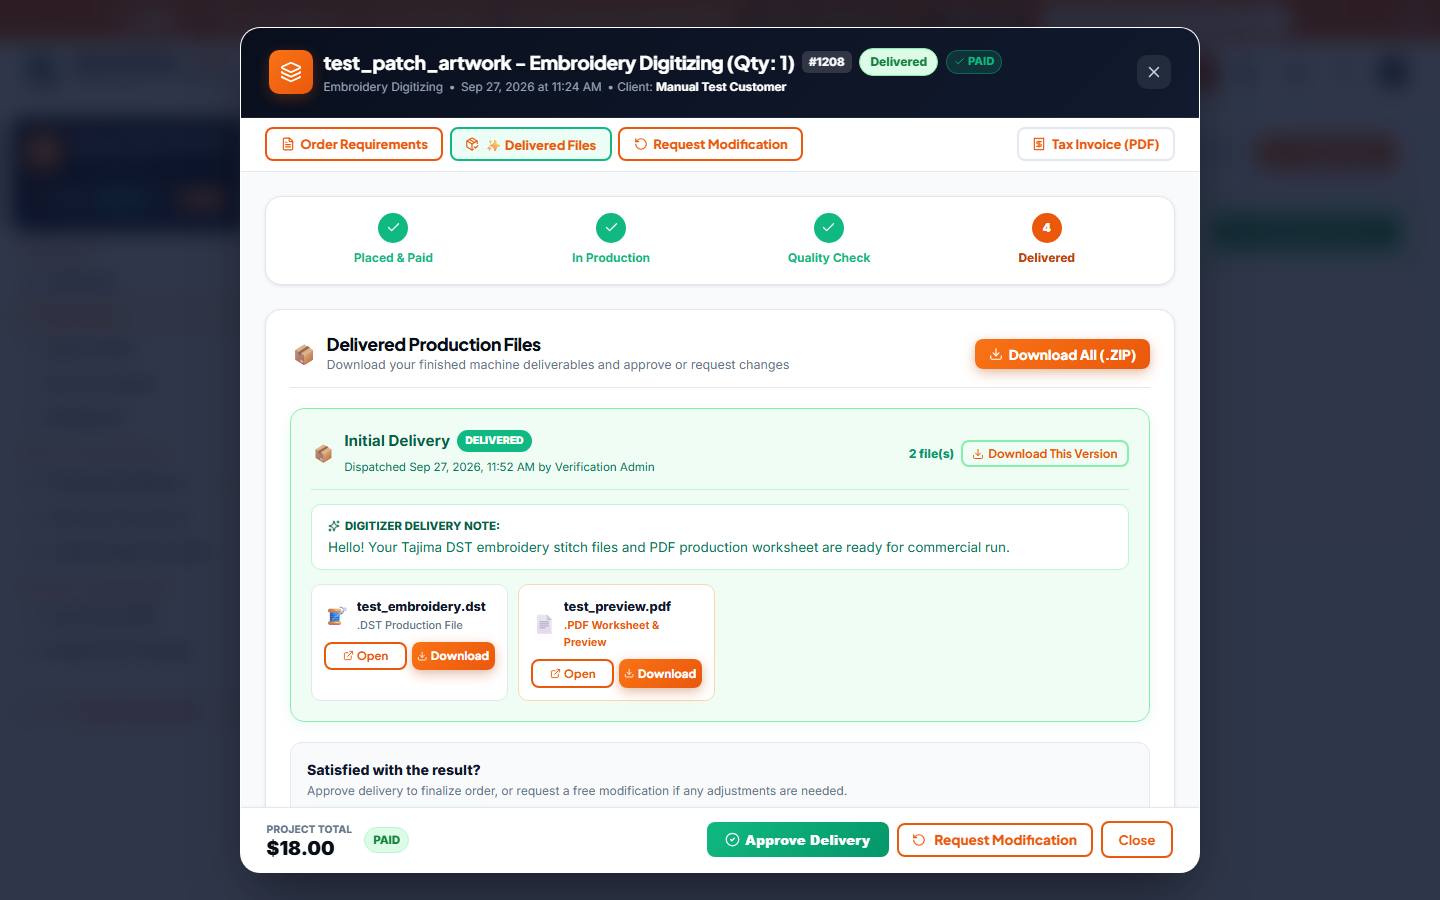
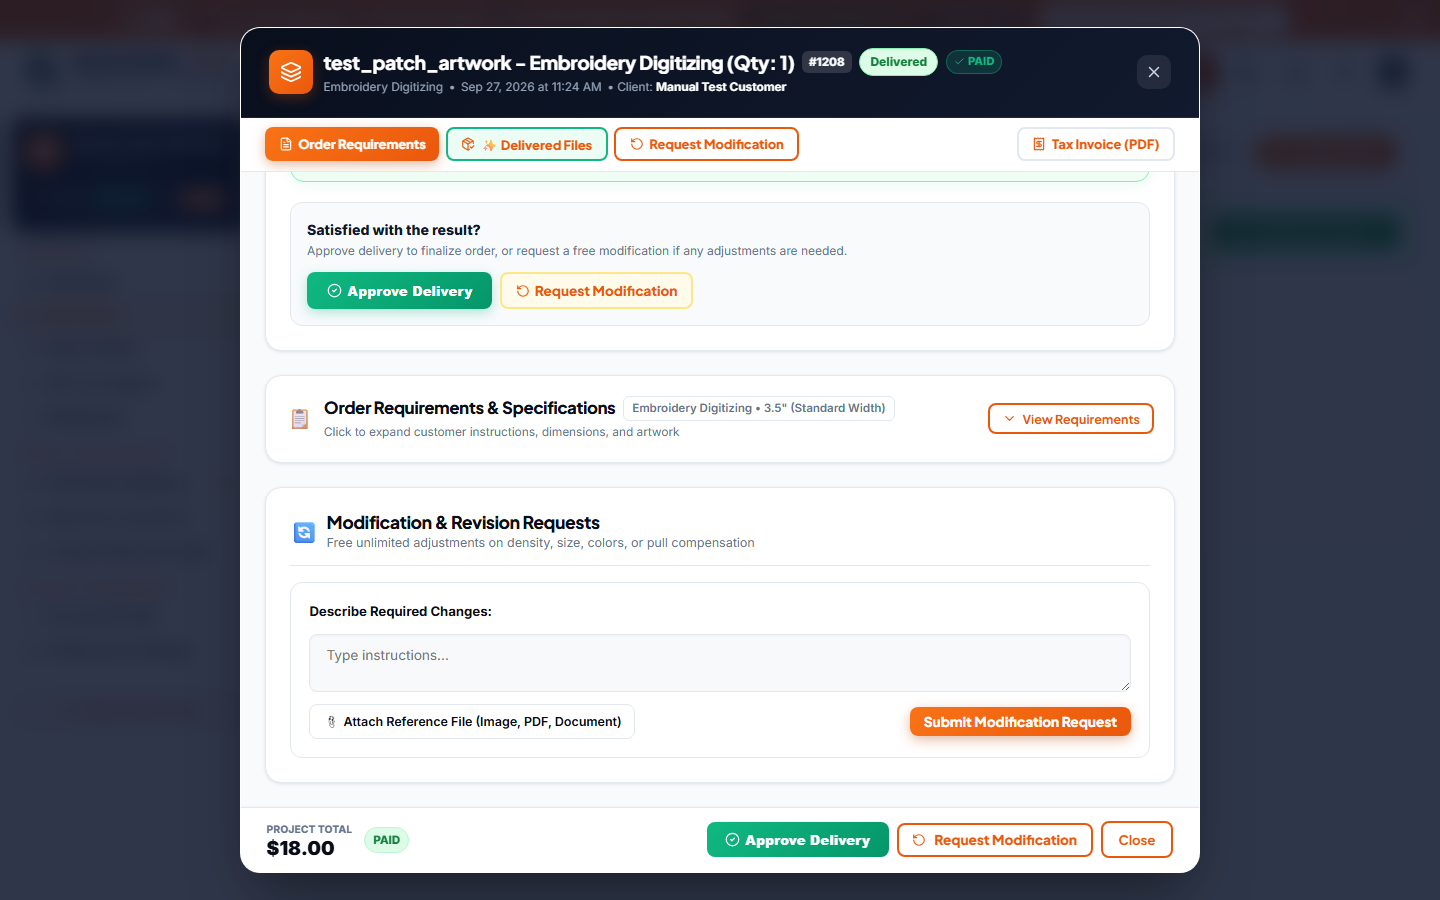
fix(drawer): stabilize accordion toggle and refine e2e script

diff --git a/src/components/customer/OrderTrackerDrawer.jsx b/src/components/customer/OrderTrackerDrawer.jsx
@@ -244,11 +244,16 @@ export const OrderTrackerDrawer = () => {
   }, [selectedOrderForDrawer, ord?.id, isPaid, refreshOrders]);
 
   // Requirements Collapsible Default: open for pending/in-progress orders, collapsed for delivered/completed orders
+  const lastSetOrderIdRef = useRef(null);
   useEffect(() => {
     if (!selectedOrderForDrawer) return;
-    const st = String(ord?.status || '').toLowerCase();
-    const isDoneOrDeliv = st === 'delivered' || st === 'completed';
-    setIsRequirementsOpen(!isDoneOrDeliv);
+    const currentId = ord?.id || selectedOrderForDrawer;
+    if (lastSetOrderIdRef.current !== currentId) {
+      lastSetOrderIdRef.current = currentId;
+      const st = String(ord?.status || '').toLowerCase();
+      const isDoneOrDeliv = st === 'delivered' || st === 'completed';
+      setIsRequirementsOpen(!isDoneOrDeliv);
+    }
   }, [selectedOrderForDrawer, ord?.id, ord?.status]);
 
   // Reset delivery version selection to latest (index 0) when switching orders
